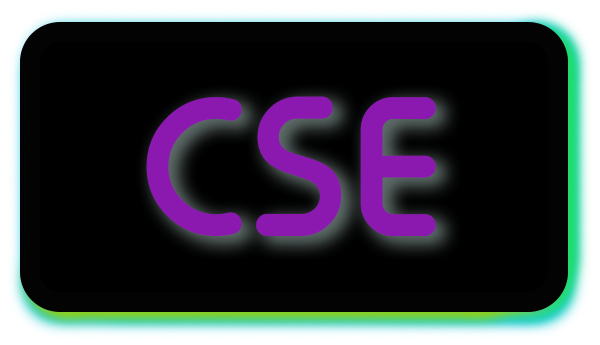
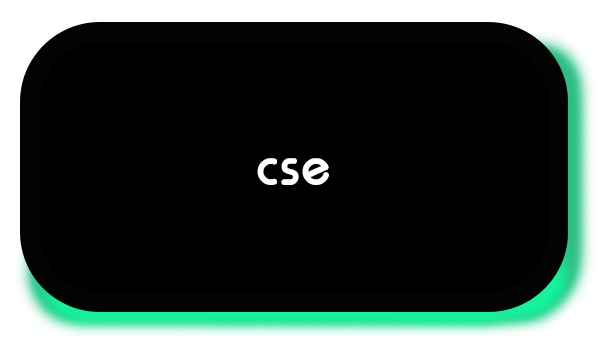
subscription buttons

Changed region(s): [[0.0, 0.029, 0.99, 0.9565], [0.24, 0.2609, 0.75, 0.7246]]

diff --git a/src/app/auth/register/subscription/subscription.component.html b/src/app/auth/register/subscription/subscription.component.html
@@ -12,28 +12,74 @@
     		<div mdcHeadline4 class = "popular">Popular:</div>
     		<br>
     		<div fxLayout="row" fxLayoutAlign="space-between center" class="row1">
-    			<button class = "KSA" mdc-button (click)="(onNext)"></button>
-				<button class = "SIBC" mdc-button (click)="(onNext)"></button>
-				<button class = "CSE" mdc-button (click)="(onNext)"></button>
+    			<button class = "KSA" mdc-button (click)="(onNext)">
+                    <button mdcIconButton [on]="false" class="add">
+                        <mdc-icon>star_border</mdc-icon>
+                        <mdc-icon mdcIconOn>star</mdc-icon>
+                    </button>
+                </button>
+				<button class = "SIBC" mdc-button (click)="(onNext)">
+                    <button mdcIconButton [on]="false" class="add">
+                        <mdc-icon>star_border</mdc-icon>
+                        <mdc-icon mdcIconOn>star</mdc-icon>
+                    </button>
+                </button>
+				<button class = "CSE" mdc-button (click)="(onNext)">
+                    <button mdcIconButton [on]="false" class="add">
+                        <mdc-icon>star_border</mdc-icon>
+                        <mdc-icon mdcIconOn>star</mdc-icon>
+                    </button>
+                </button>
     		</div>
     		<br>
     		<br>
     		<div fxLayout="row" fxLayoutAlign="space-between center" class="row2">
-    			<button class = "mendoza" mdc-button (click)="(onNext)"></button>
-				<button class = "dillon" mdc-button (click)="(onNext)"></button>
-				<button class = "football" mdc-button (click)="(onNext)"></button>
+    			<button class = "mendoza" mdc-button (click)="(onNext)">
+                    <button mdcIconButton [on]="false" class="add">
+                        <mdc-icon>star_border</mdc-icon>
+                        <mdc-icon mdcIconOn>star</mdc-icon>
+                    </button>
+                </button>
+				<button class = "dillon" mdc-button (click)="(onNext)">
+                    <button mdcIconButton [on]="false" class="add">
+                        <mdc-icon>star_border</mdc-icon>
+                        <mdc-icon mdcIconOn>star</mdc-icon>
+                    </button>
+                </button>
+				<button class = "football" mdc-button (click)="(onNext)">
+                    <button mdcIconButton [on]="false" class="add">
+                        <mdc-icon>star_border</mdc-icon>
+                        <mdc-icon mdcIconOn>star</mdc-icon>
+                    </button>
+                </button>
     		</div>
     		<br>
     		<br>
     		<div fxLayout="row" fxLayoutAlign="space-between center" class="row3">
-    			<button class = "lewis" mdc-button (click)="(onNext)"></button>
-				<button class = "campusdining" mdc-button (click)="(onNext)"></button>
-				<button class = "stugov" mdc-button (click)="(onNext)"></button>
+    			<button class = "lewis" mdc-button (click)="(onNext)">
+                    <button mdcIconButton [on]="false" class="add">
+                         <mdc-icon>star_border</mdc-icon>
+                        <mdc-icon mdcIconOn>star</mdc-icon>
+                    </button>
+                </button>
+				<button class = "campusdining" mdc-button (click)="(onNext)">
+                    <button mdcIconButton [on]="false" class="add">
+                        <mdc-icon>star_border</mdc-icon>
+                        <mdc-icon mdcIconOn>star</mdc-icon>
+                    </button>
+                </button>
+				<button class = "stugov" mdc-button (click)="(onNext)">
+                    <button mdcIconButton [on]="false" class="add">
+                        <mdc-icon>star_border</mdc-icon>
+                        <mdc-icon mdcIconOn>star</mdc-icon>
+                    </button>
+                </button>
     		</div>
     		<br>
     		<br>
     	</div>
     	<div mdcHeadline5 class="message"> Click explore to add more subscriptions or finish </div>
+        <br>
     	<div fxLayout="row" fxLayoutAlign="space-between center" class="row4">
 			<button class = "explore" mdc-button outlined> Explore </button>
 			<button class = "finish" mdc-button outlined (click)="onNext()"> Finish </button>

diff --git a/src/app/auth/register/subscription/subscription.component.scss b/src/app/auth/register/subscription/subscription.component.scss
@@ -15,6 +15,13 @@
 .row1{
 	min-width:800px;
 }
+.add{
+    min-width: 10px;
+    min-height:10px;
+    position: absolute;
+    top: 5px;
+    right: 5px;
+}
 .KSA{
 	width: 250px;
 	height: 150px;
@@ -22,6 +29,7 @@
     background-size: cover;
     background-position: center;
 }
+
 .SIBC{
 	width: 250px;
 	height: 150px;
@@ -33,6 +41,54 @@
 	width: 250px;
 	height: 150px;
     background-image: url("../../../../assets/images/CSEbutton.png");
+    background-size: cover;
+    background-position: center;
+}
+.row2{
+    min-width:800px;
+}
+.mendoza{
+    width: 250px;
+    height: 150px;
+    background-image: url("../../../../assets/images/mendozabutton.png");
+    background-size: cover;
+    background-position: center;
+}
+.dillon{
+    width: 250px;
+    height: 150px;
+    background-image: url("../../../../assets/images/Dillonbutton.png");
+    background-size: cover;
+    background-position: center;
+}
+.football{
+    width: 250px;
+    height: 150px;
+    background-image: url("../../../../assets/images/footballbutton.png");
+    background-size: cover;
+    background-position: center;
+}
+.row3{
+    min-width:800px;
+}
+.lewis{
+    width: 250px;
+    height: 150px;
+    background-image: url("../../../../assets/images/lewisbutton.png");
+    background-size: cover;
+    background-position: center;
+}
+.campusdining{
+    width: 250px;
+    height: 150px;
+    background-image: url("../../../../assets/images/camdiningbutton.png");
+    background-size: cover;
+    background-position: center;
+}
+.stugov{
+    width: 250px;
+    height: 150px;
+    background-image: url("../../../../assets/images/StuGovButton.png");
     background-size: cover;
     background-position: center;
 }

diff --git a/src/styles.scss b/src/styles.scss
@@ -63,6 +63,4 @@ body {
     @include mdc-text-field-label-color(#FFF);	
     @include mdc-text-field-caret-color(#FFF);	
 }
-.mdc-button {
-    @include mdc-button
-}
+
